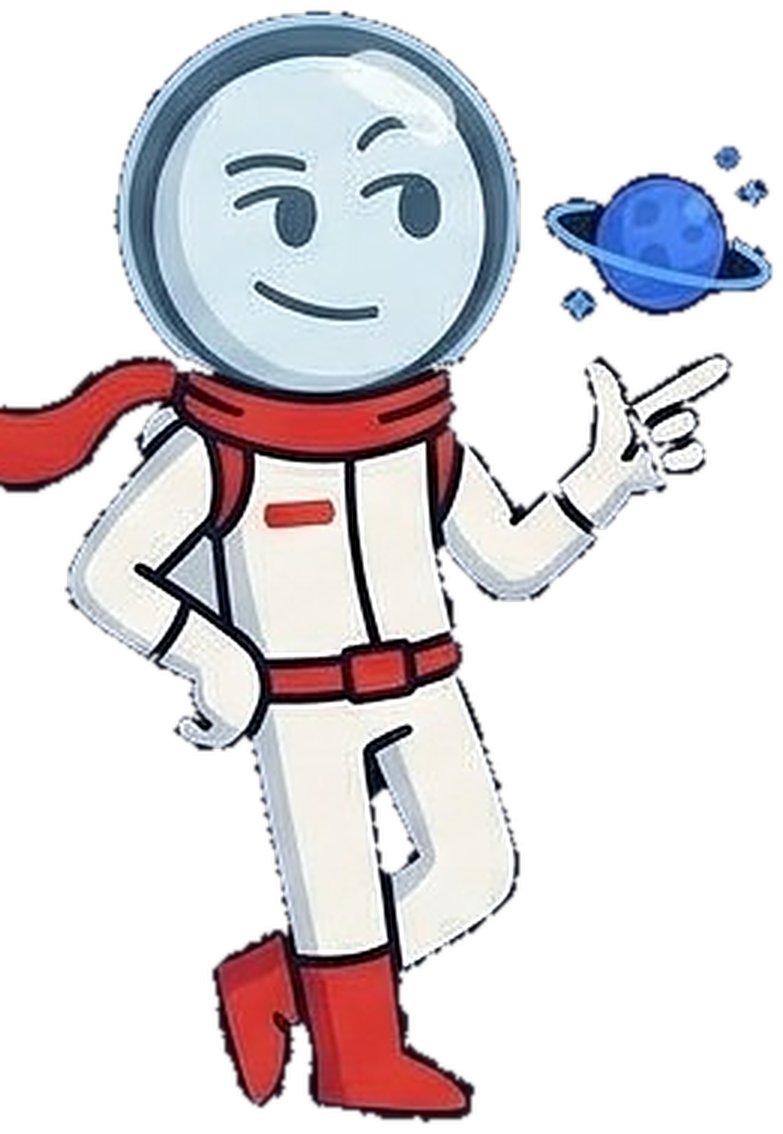
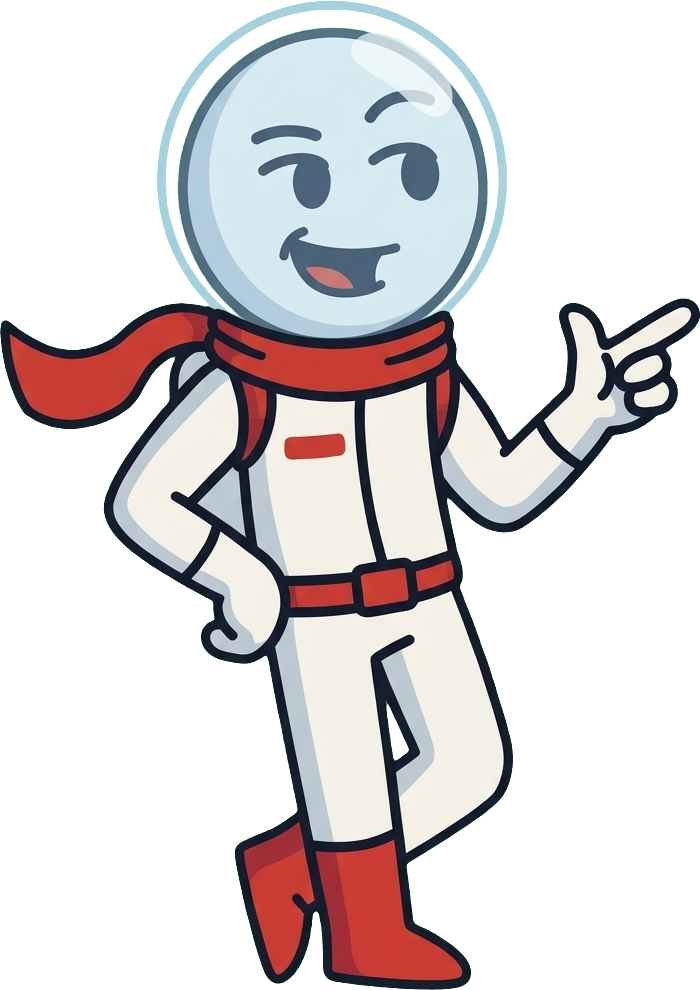
Black hole video: install owner's HD character PNGs, re-verify shots 01 and 06
Claude-Session: https://claude.ai/code/session_01QZBGd8qH4EfV1MNE2nHfnB

diff --git a/CLAUDE.md b/CLAUDE.md
@@ -150,7 +150,7 @@ another channel's logo, badge, characters or images):
 ## THE CHARACTER — fixed in every video from now on (owner decision, 2026-11-18; replaces the 2026-11-17 sheet)
 Reference sheets: `character/character_sheet_light.jpg` (Light Canvas) and `character/character_sheet_space.jpg` (Space Mode).
 Cut-out PNGs per pose: `every-black-hole/public/assets/character/{light,space}/{explaining,shocked,the_catch,thinking}.png`
-(the owner's high-res single-pose PNGs replace the sliced ones when supplied). The old 2026-11-17 sheet lives in
+(the owner's high-res transparent PNGs, installed 2026-11-18; the sliced ones are retired). The old 2026-11-17 sheet lives in
 `character/archive_2026-11-17/` and is NOT used any more. Never redesign him; every video, short, thumbnail and cover uses:
 - **Light Canvas version (default, explanations):** big round off-white head with soft grey shading, no hair/ears/nose;
   expressive eyebrows, black-pupil eyes, simple mouth; plain RED short-sleeve T-shirt (no logo); light blue-grey trousers;
